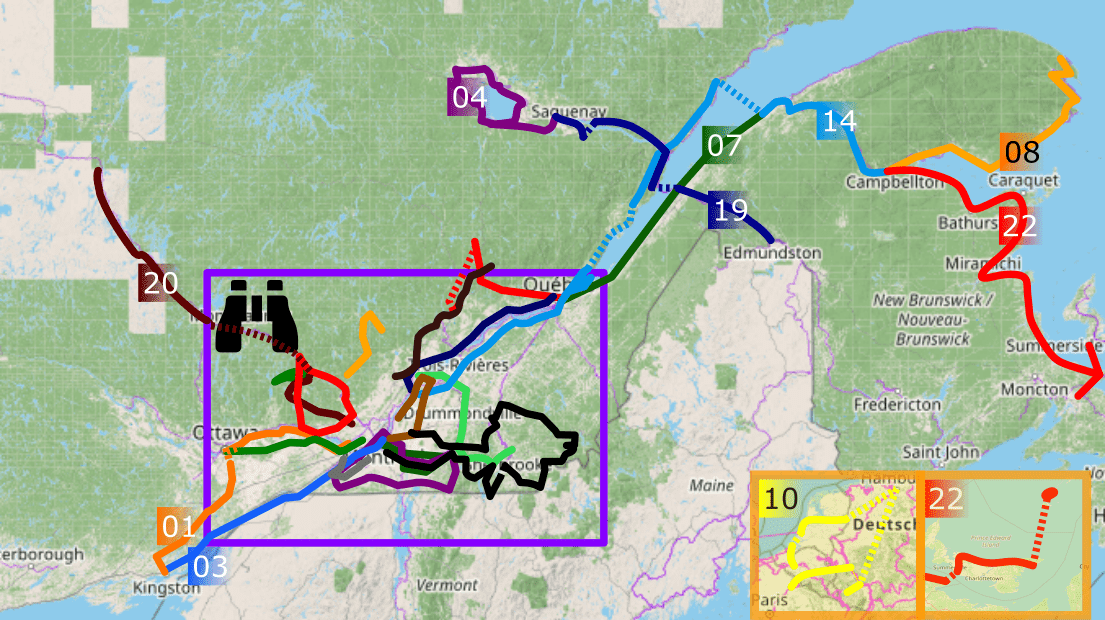
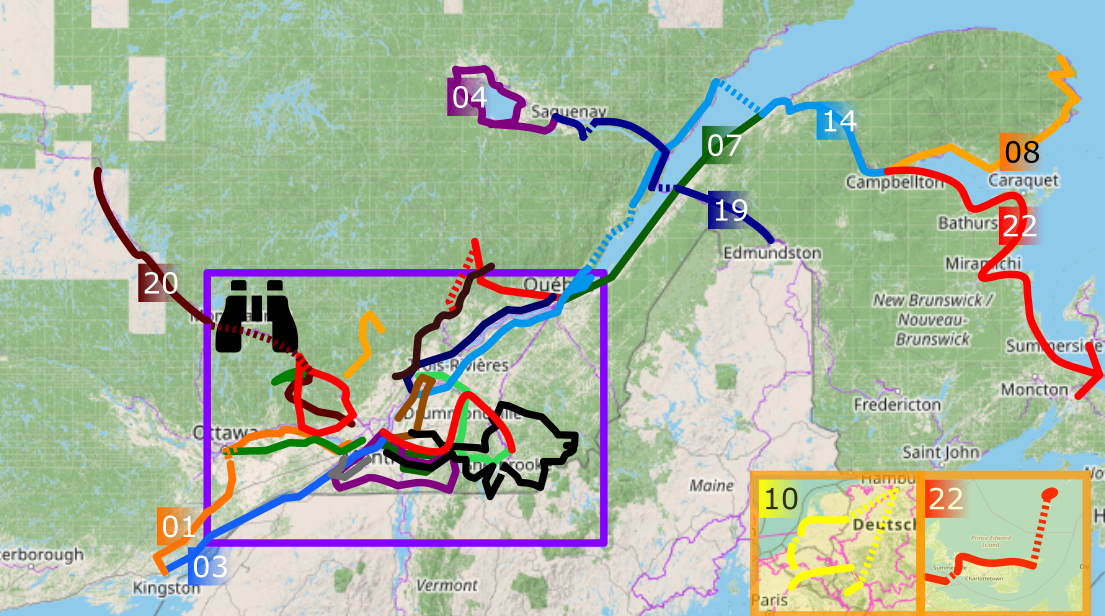
v519

diff --git a/client/src/2.Corps/pagesImp/VoyEffectues.js b/client/src/2.Corps/pagesImp/VoyEffectues.js
@@ -19,7 +19,7 @@ const VoyEffectues = () => {
             <section>
                 <h2>Quelques idées pour vous mettre sur la bonne piste!</h2>
                 <p>Que ça soit pour se renseigner, planifier ou tout simplement pour s'inspirer, voici mon historique de cyclotourisme, d'abord sur une carte, puis en ordre chronologique. Même si j'ai parcouru plusieurs des grandes destinations de la province, je sais qu'il reste énormément d'endroits à découvrir ici comme ailleurs.</p>
-                <p>En 2022, j'ai enfin réalisé mon projet de découvrir l'Acadie à vélo, me rendant jusqu'aux Iles-de-la-Madeleine. Ce fut le voyage le plus long que j'ai entrepris, ne me lassant jamais des différents points de vue sur la mer. Je suis aussi allé rouler 4 jours dans le bois, à cheval entre les Laurentides et l'Outaouais. Ce périple « en garnotte » fut l'occasion idéale de s'échapper des foules et de profiter du silence de la forêt. Quels objectifs pour l'an prochain? Bonne question!</p>
+                <p>L'été 2023 en fut un de nouveaux projets, et malheureusement, j'ai dû me limiter à une seule sortie de quatre jours. Ce fut alors une expérience courte, mais mémorable, principalement le long de la Route verte 1 et 4 entre Montréal, Drummondville et Sherbrooke.</p>
                 <Stats1 />
                 <H3e>Nuitées<FontAwesomeIcon icon={faMoon} /></H3e>
                 <Stats2 />

diff --git a/client/src/2.Corps/pagesImp/images/voyagesEff/index.js b/client/src/2.Corps/pagesImp/images/voyagesEff/index.js
@@ -21,3 +21,4 @@ export { default as PhotoTitre20 } from "./v20.jpg";
 export { default as PhotoTitre21 } from "./v21.jpg";
 export { default as PhotoTitre22 } from "./v22.jpg";
 export { default as PhotoTitre23 } from "./v23.jpg";
+export { default as PhotoTitre24 } from "./v24.jpg";
